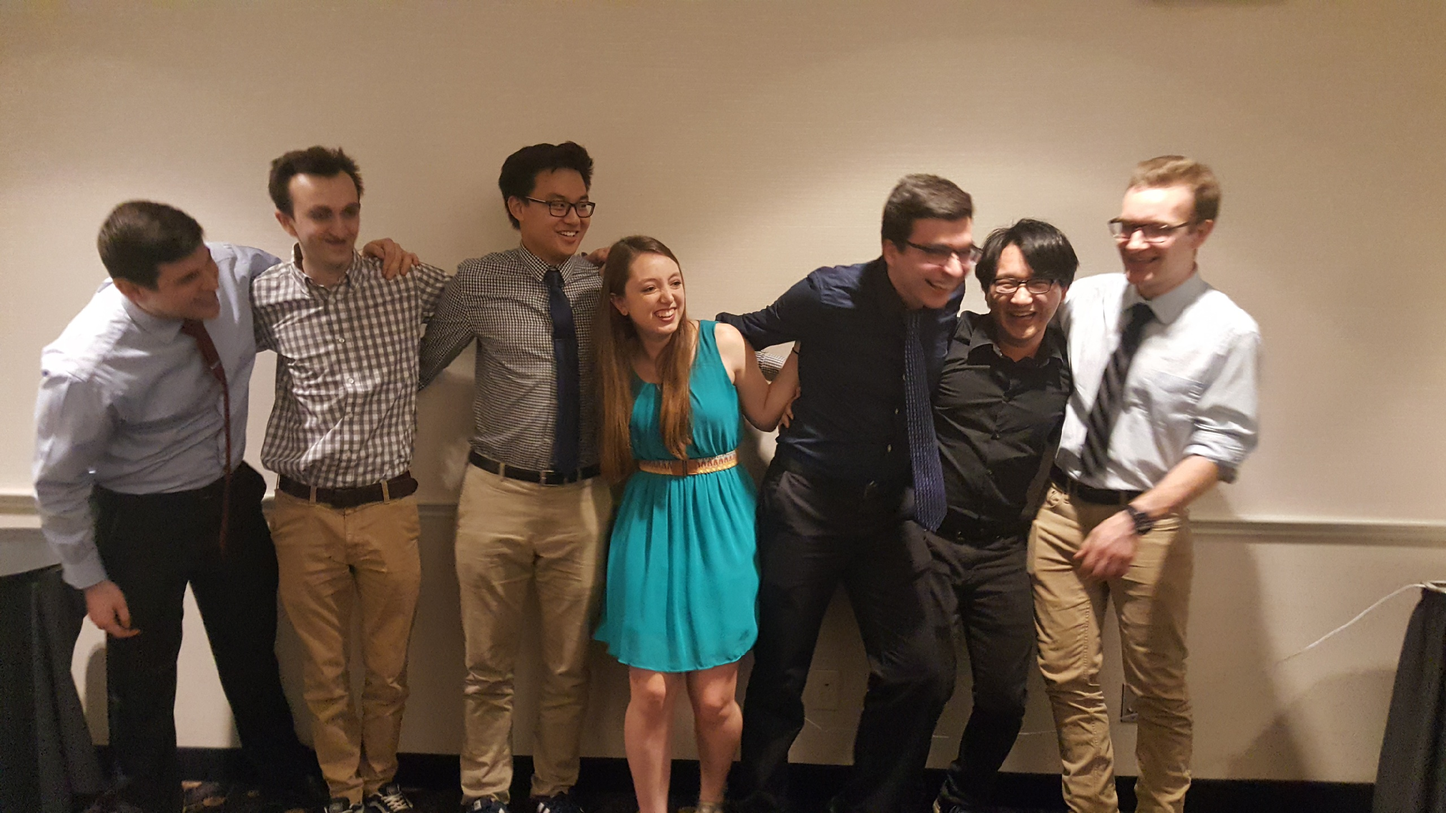
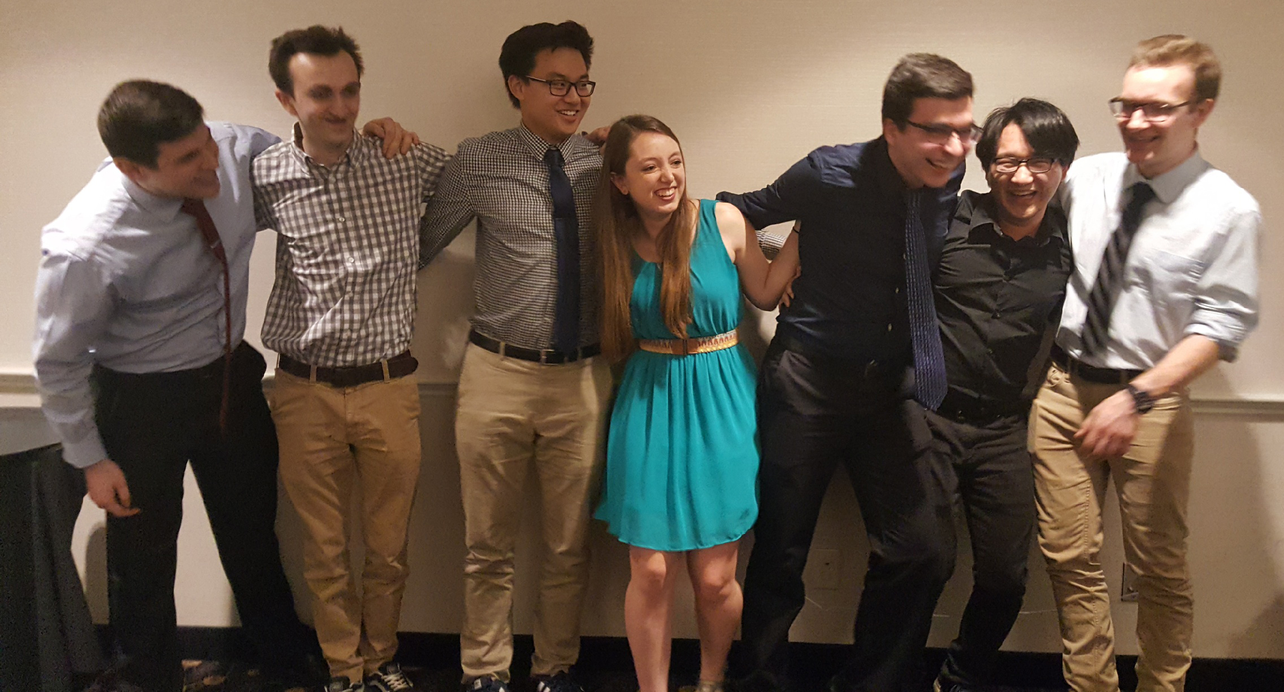
Added photos for each page.

diff --git a/_includes/navbar.html b/_includes/navbar.html
@@ -2,10 +2,11 @@
     
     <!-- Logo and title -->
 	<div class="branding">
-		<a href="{{ site.baseurl }}/">
+        <!--
+        <a href="{{ site.baseurl }}/">
 			<img class="avatar" src="{{ site.baseurl }}/{{ site.theme_settings.avatar }}" alt=""/>
-		</a>
-
+        </a>
+        -->
 		<h1 class="site-title">
 			<a href="{{ site.baseurl }}/">{{ site.theme_settings.title }}</a>
 		</h1>

diff --git a/pages/portfolio.md b/pages/portfolio.md
@@ -3,7 +3,7 @@ layout: page
 title : Portfolio 
 permalink: /portfolio/
 subtitle: "All Current and Past Projects, School and Personal." 
-feature-img: "assets/img/pexels/computer.jpeg"
+feature-img: "assets/img/pexels/whiteboard.jpg"
 tags: [Portfolio, Projects, Unity, Github, Java, C#]
 ---
 

diff --git a/pages/contact.md b/pages/contact.md
@@ -2,7 +2,7 @@
 layout: page
 title: Contact Me
 permalink: /contact/
-//feature-img: "assets/img/pexels/circuit.jpeg"
+feature-img: "assets/img/pexels/contactphoto.jpg"
 tags: [Contact, Github, LinkedIn, Twitter]
 ---
 <div style = "text-align:center;">
